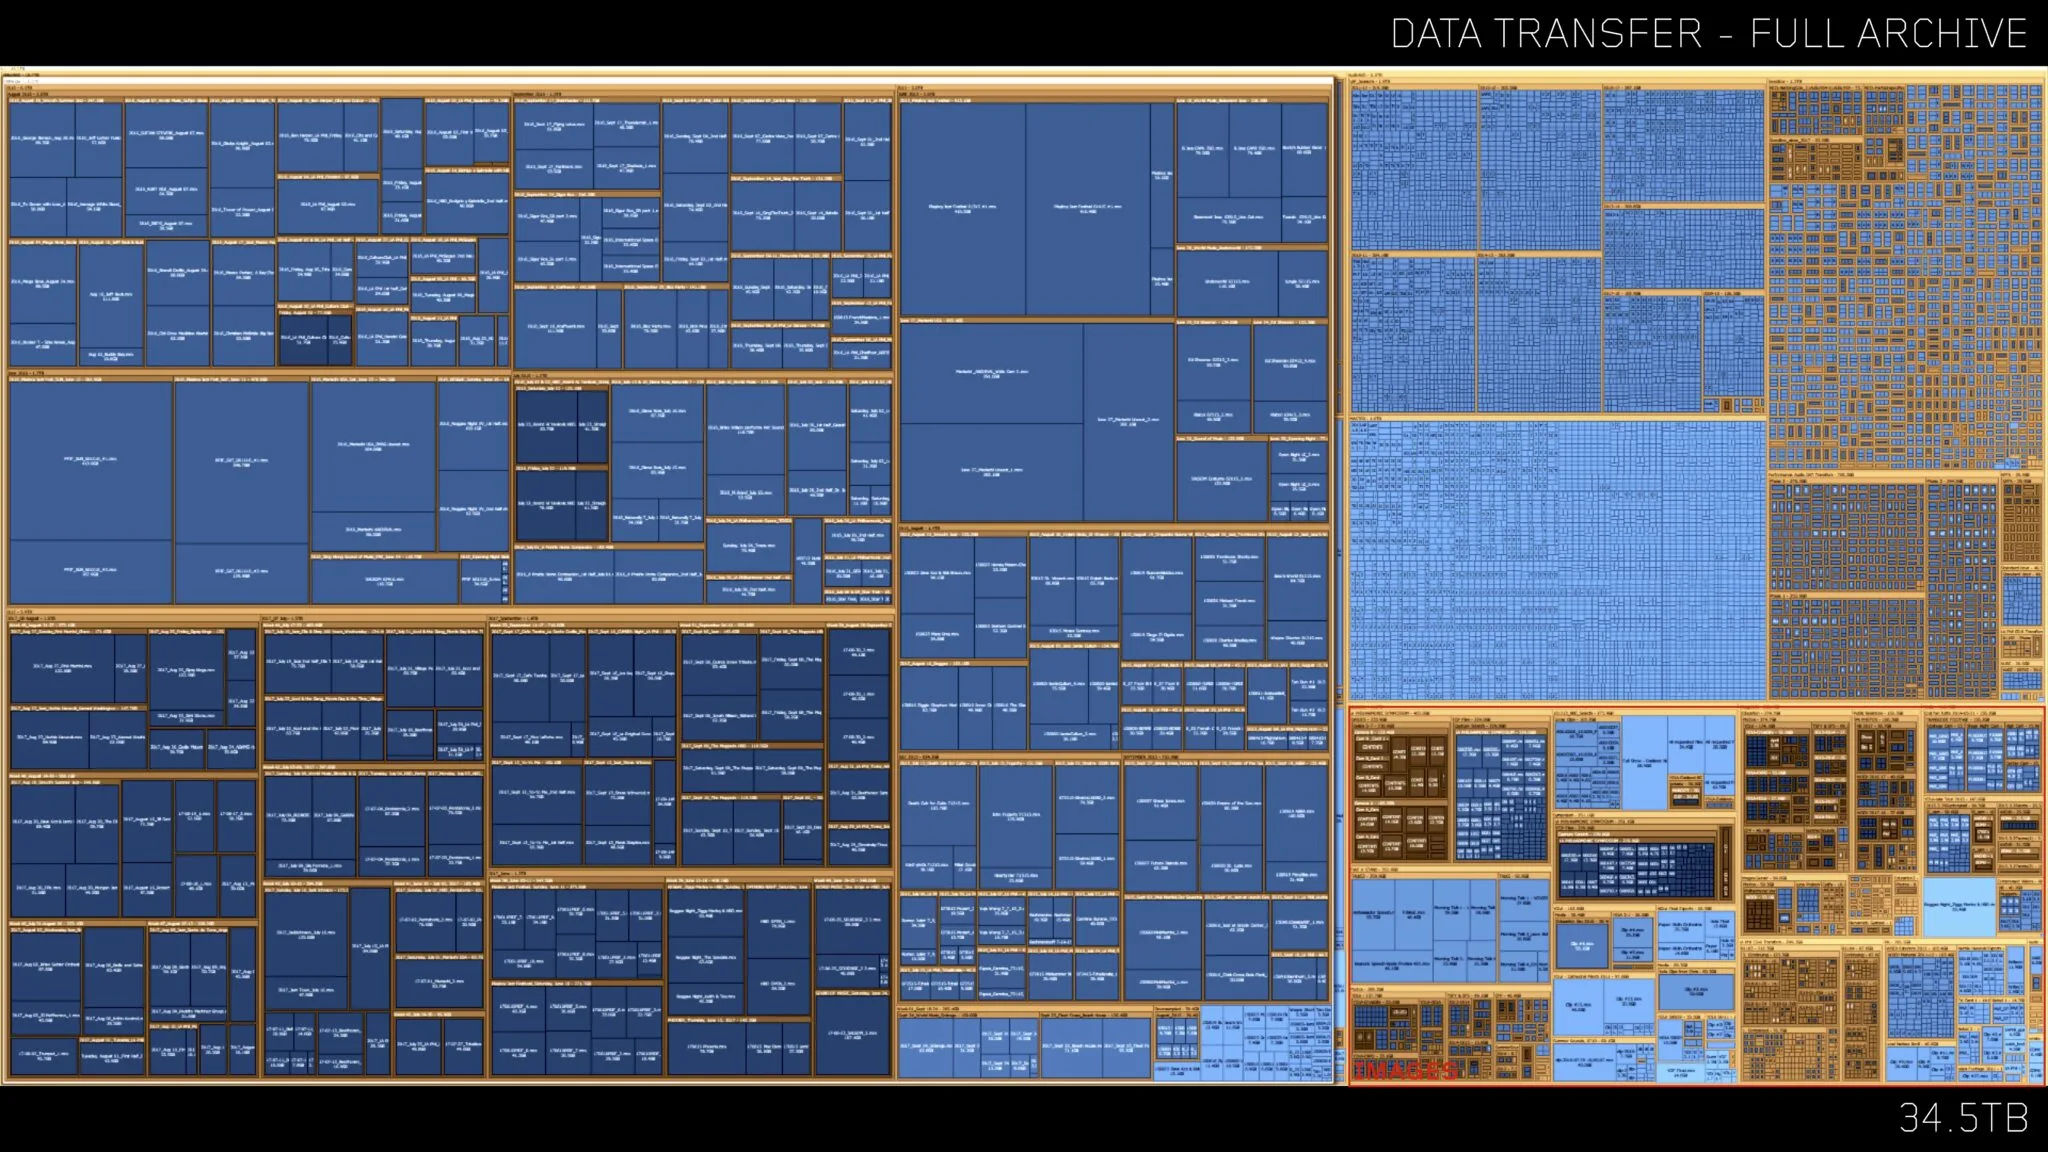
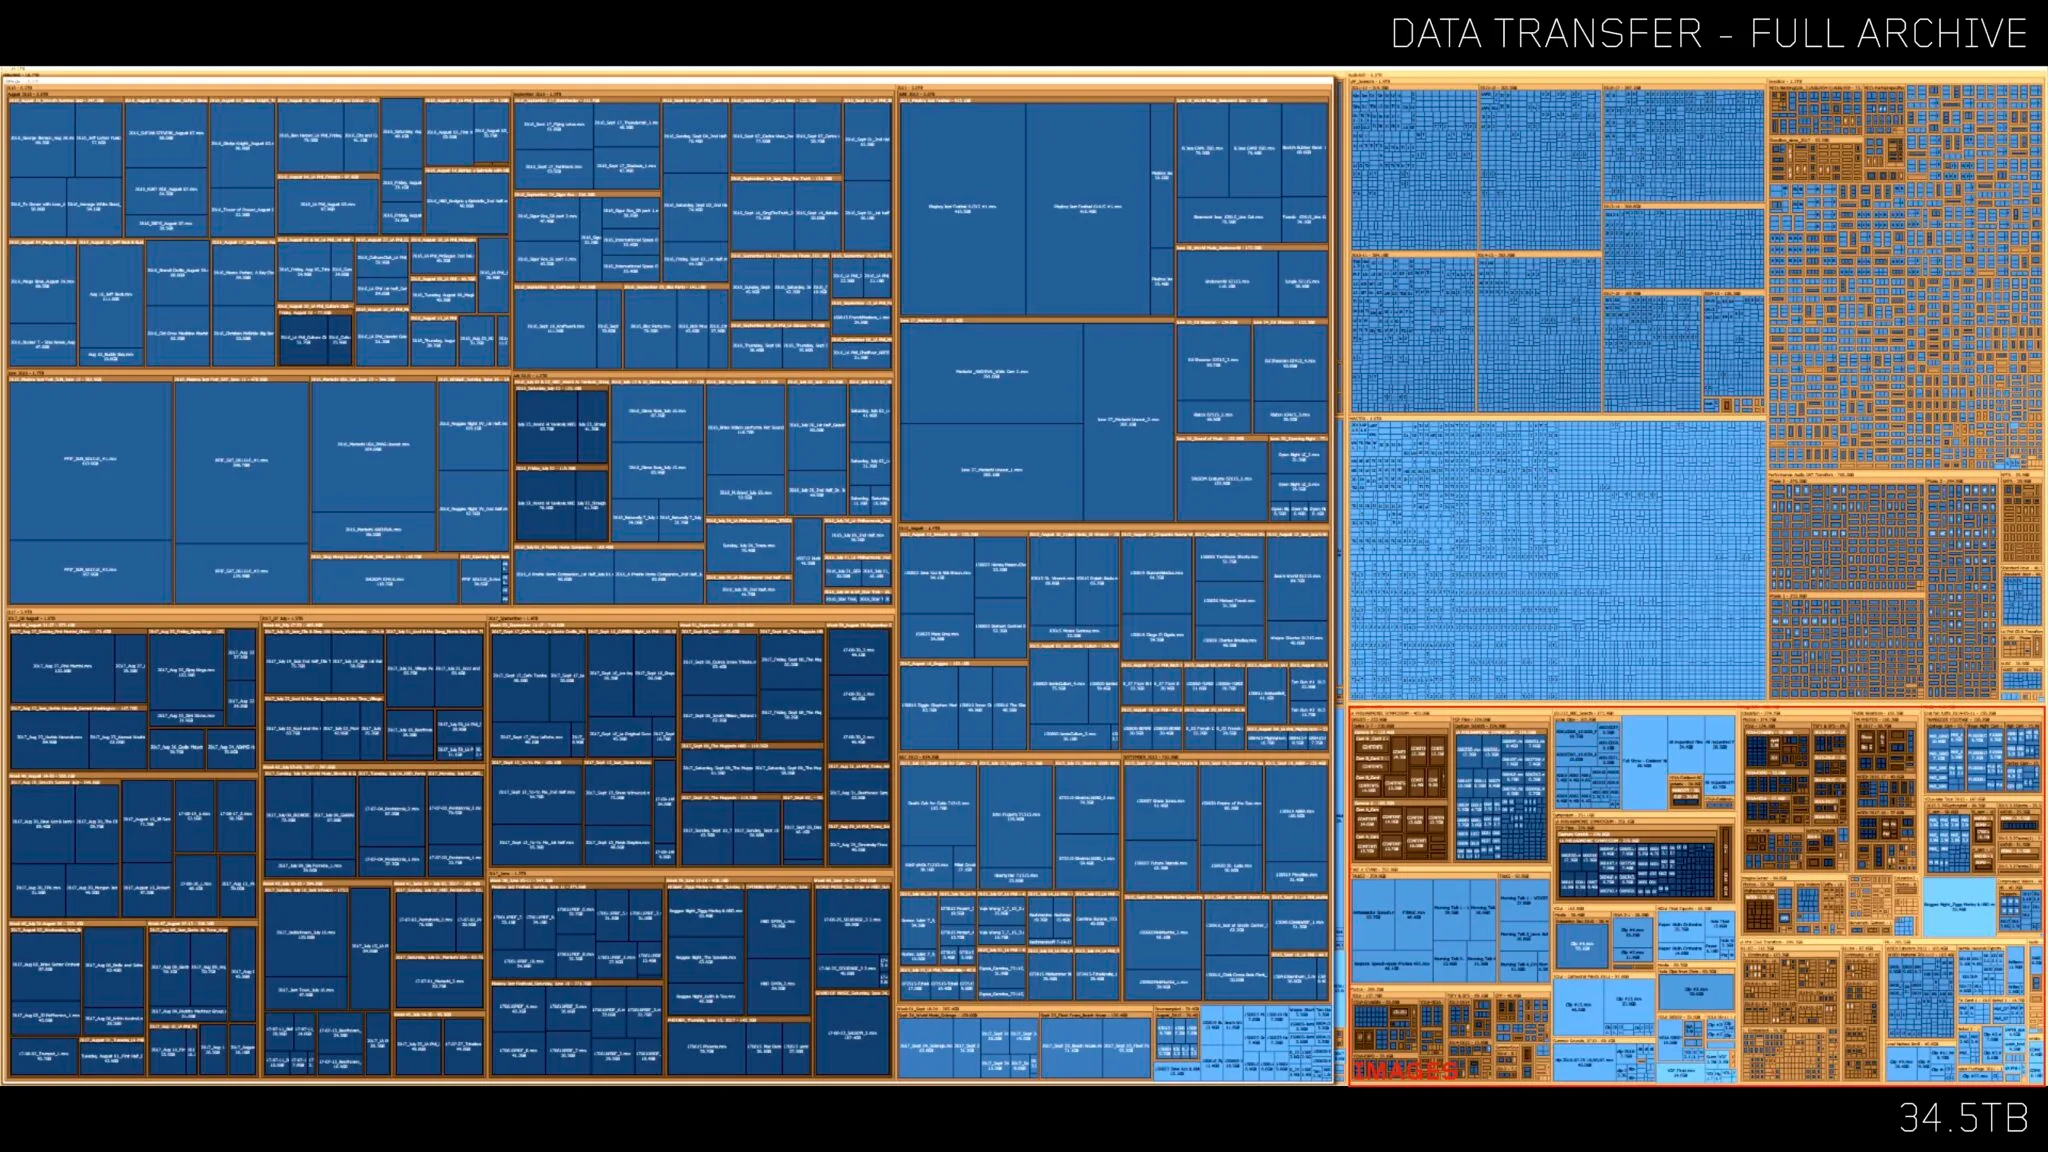
hotfix: update syntetic senses images

diff --git a/src/data/Projects/SyntheticSenses/ProjectAboutDropdown.ts b/src/data/Projects/SyntheticSenses/ProjectAboutDropdown.ts
@@ -2,20 +2,28 @@ import type { IAboutDropdown } from '$lib/elements/AboutDropdown/interfaces';
 
 const REFIK_ANADOL_IMAGE_CREDIT = 'Images Courtesy of Refik Anadol Studio';
 
+const syntheticSensesParagRefikAnadolImages = new Set([
+	'/media/synthetic-senses/WDCHDreams-Keyword_select.width-1600.format-webp.webp',
+	'/media/synthetic-senses/treemap-2048x1152.webp'
+]);
+
 export const syntheticSensesParagGridImages = [
 	'/media/synthetic-senses/WDCHDreams-Keyword_select.width-1600.format-webp.webp',
-	'/media/synthetic-senses/STILL_27-2048x1353.webp',
-	'/media/synthetic-senses/230808_LA-Phil-Concept-Presentation-1-2048x1152.webp',
 	'/media/synthetic-senses/treemap-2048x1152.webp',
-	'/media/synthetic-senses/crop2-1.webp',
-	'/media/synthetic-senses/STILL_27-scaled.webp'
+	'/media/synthetic-senses/Artboard%201.webp',
+	'/media/synthetic-senses/Artboard%203_1.webp',
+	'/media/synthetic-senses/Artboard%209.webp',
+	'/media/synthetic-senses/Overhead1%202.webp',
+	'/media/synthetic-senses/image.webp'
 ];
 
 export const syntheticSensesParagDropdownItems: IAboutDropdown[] =
-	syntheticSensesParagGridImages.map((image, index) => ({
-		name: index < 2 ? REFIK_ANADOL_IMAGE_CREDIT : '',
+	syntheticSensesParagGridImages.map((image) => ({
+		name: syntheticSensesParagRefikAnadolImages.has(image)
+			? REFIK_ANADOL_IMAGE_CREDIT
+			: '',
 		image,
-		normalCase: index < 2
+		normalCase: syntheticSensesParagRefikAnadolImages.has(image)
 	}));
 
 export const syntheticSensesAuroraGridImages = [